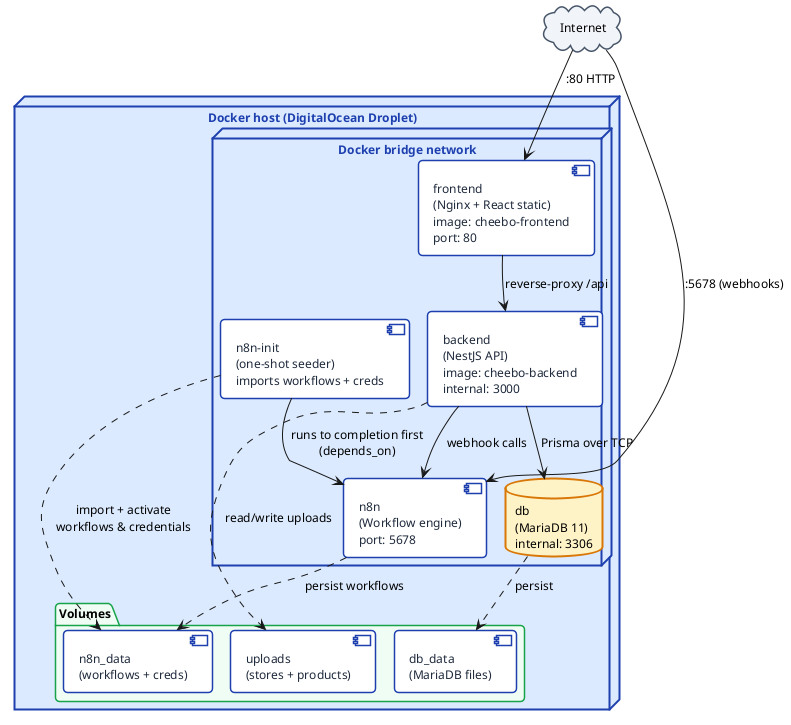
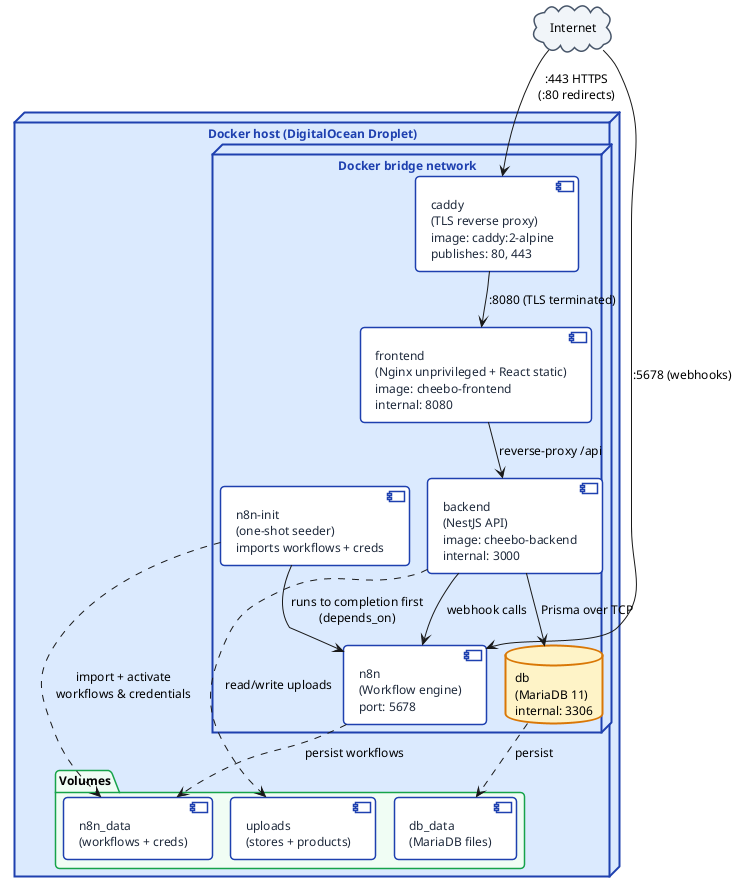
docs: update architecture and sequence figures for the sweep changes
- arch-nestjs: remove the deleted OrderItemsModule from the module map.
- arch-docker: add the Caddy TLS entrypoint (publishes 80/443) and switch
  the frontend to its non-root internal port 8080 (the diagram had it on
  :80 and omitted Caddy entirely).
- seq-order: drop the removed 'OrderItems Module' participant; the Order
  Service now inserts the Order and its OrderItems in one transaction.
- fig:rbac and fig:cicd placeholder captions updated for deny-by-default
  and the lint+build+test gates.

Re-rendered the three PlantUML PNGs and rebuilt rapport.pdf.

diff --git a/rapport.tex b/rapport.tex
@@ -2517,8 +2517,8 @@ private route) means a newly added endpoint is secure by default.
 
 \begin{figure}[H]
   \centering
-  \imagePlaceholder[5cm]{Code snippet — AuthGuard + @Roles() decorator}
-  \caption{Role-based access control implementation}
+  \imagePlaceholder[5cm]{Code snippet — global AuthGuard (APP\_GUARD), @Public() and an admin route with @Roles()}
+  \caption{Deny-by-default access control implementation}
   \label{fig:rbac}
 \end{figure}
 
@@ -3781,7 +3781,7 @@ Section~\ref{sec:tests}.
 
 \begin{figure}[H]
   \centering
-  \imagePlaceholder[7cm]{CI/CD pipeline diagram (build $\rightarrow$ push $\rightarrow$ deploy)}
+  \imagePlaceholder[7cm]{CI/CD pipeline diagram (lint + build + test gates $\rightarrow$ image push $\rightarrow$ provision $\rightarrow$ deploy)}
   \caption{GitHub Actions CI/CD pipeline}
   \label{fig:cicd}
 \end{figure}